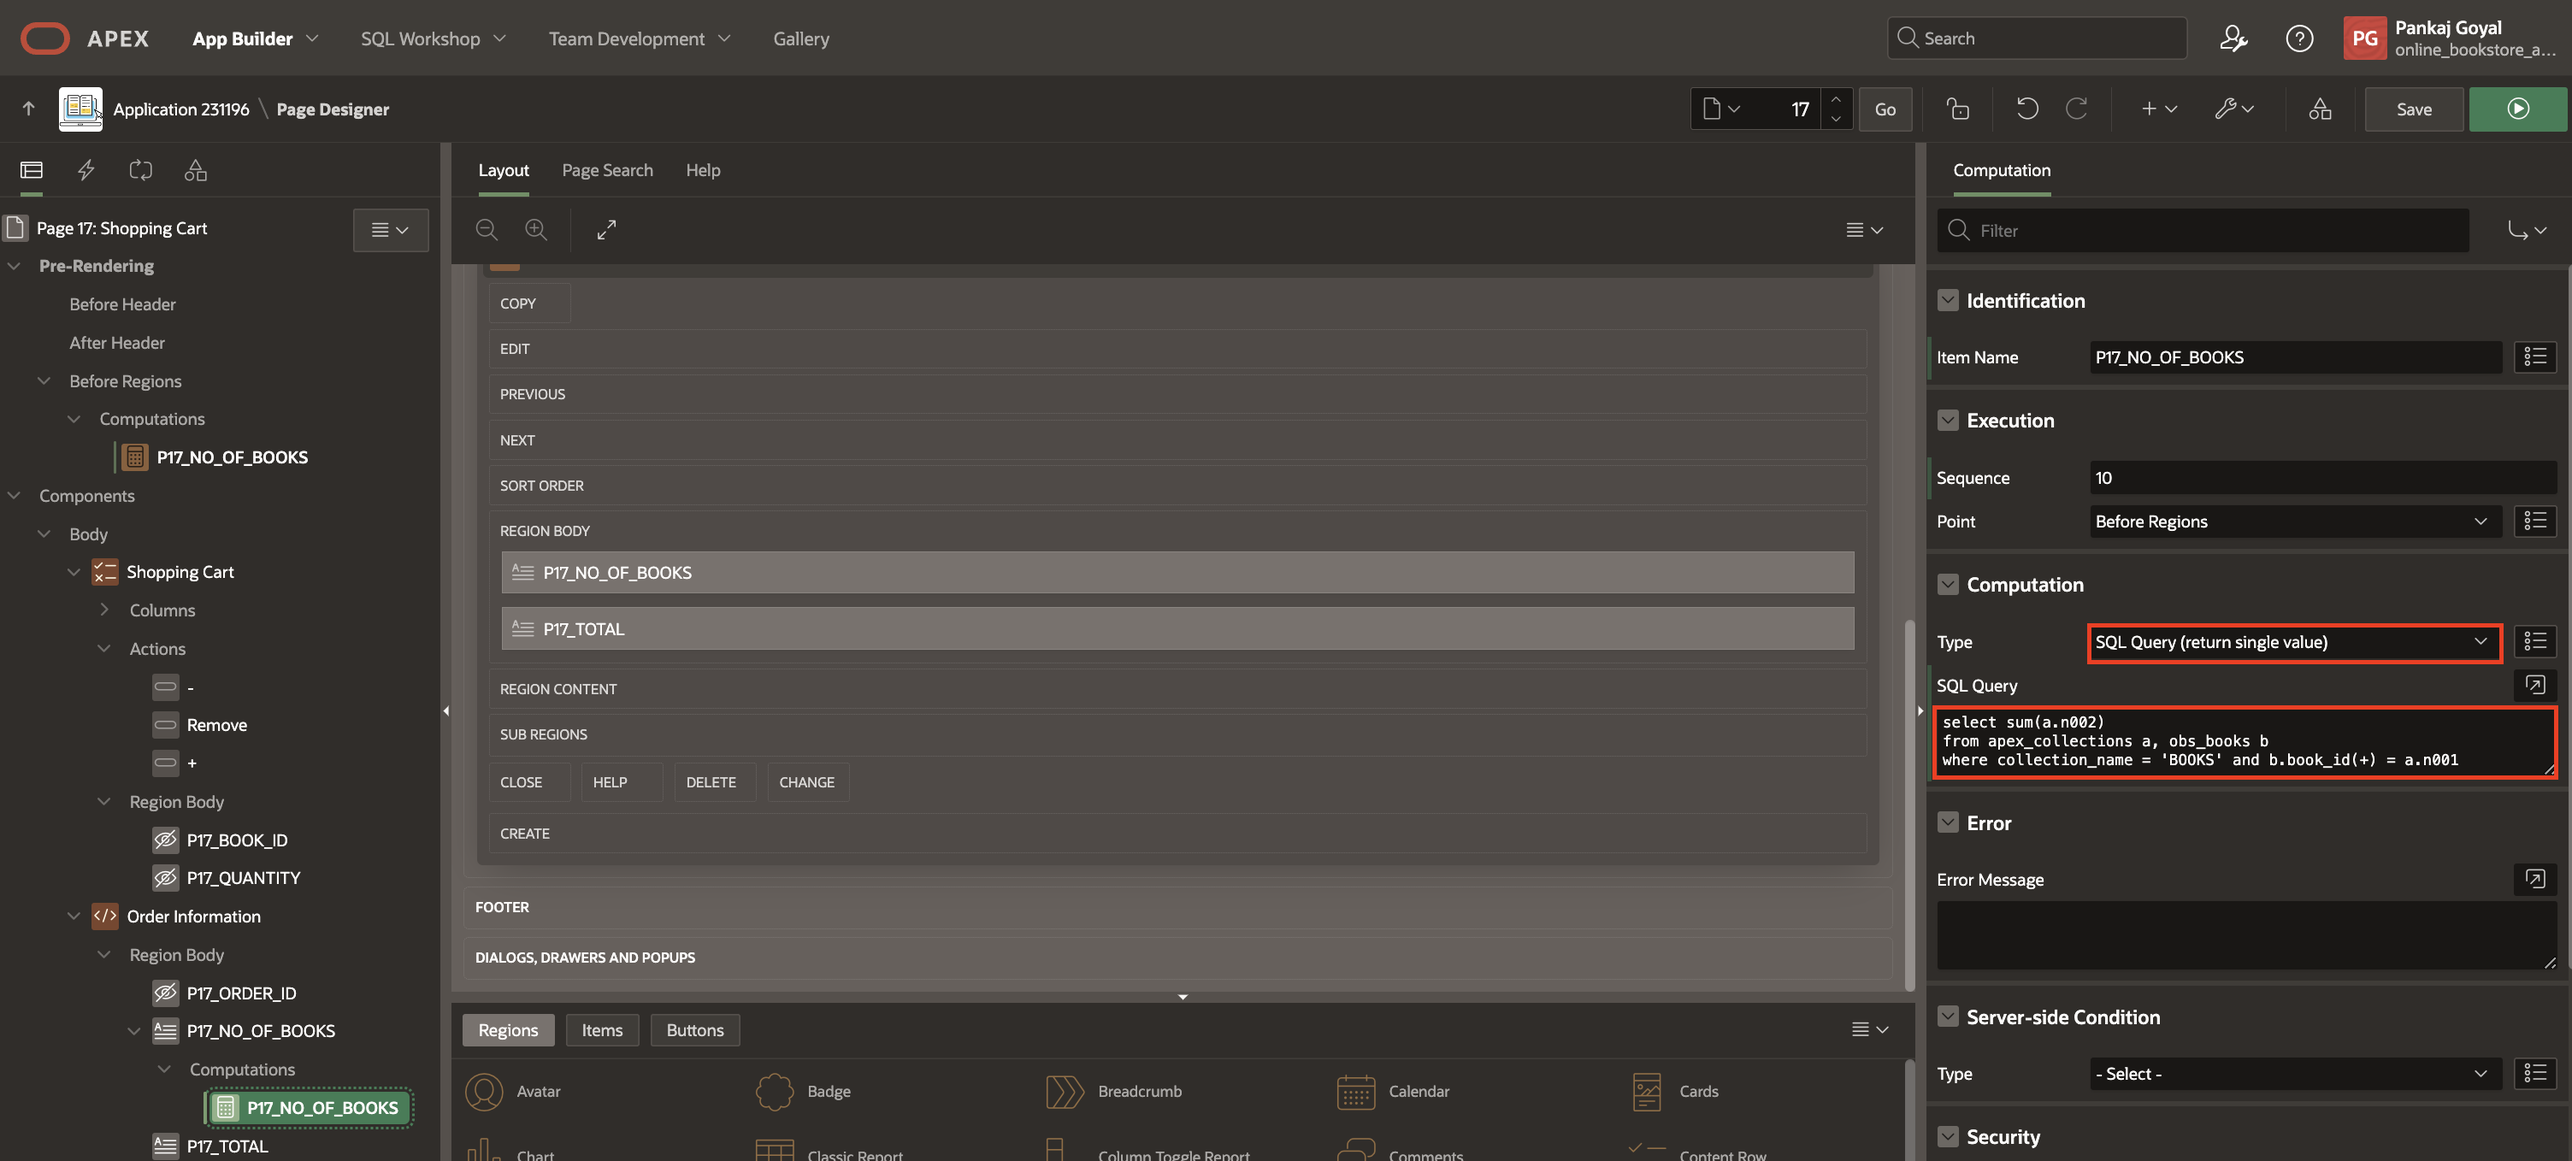
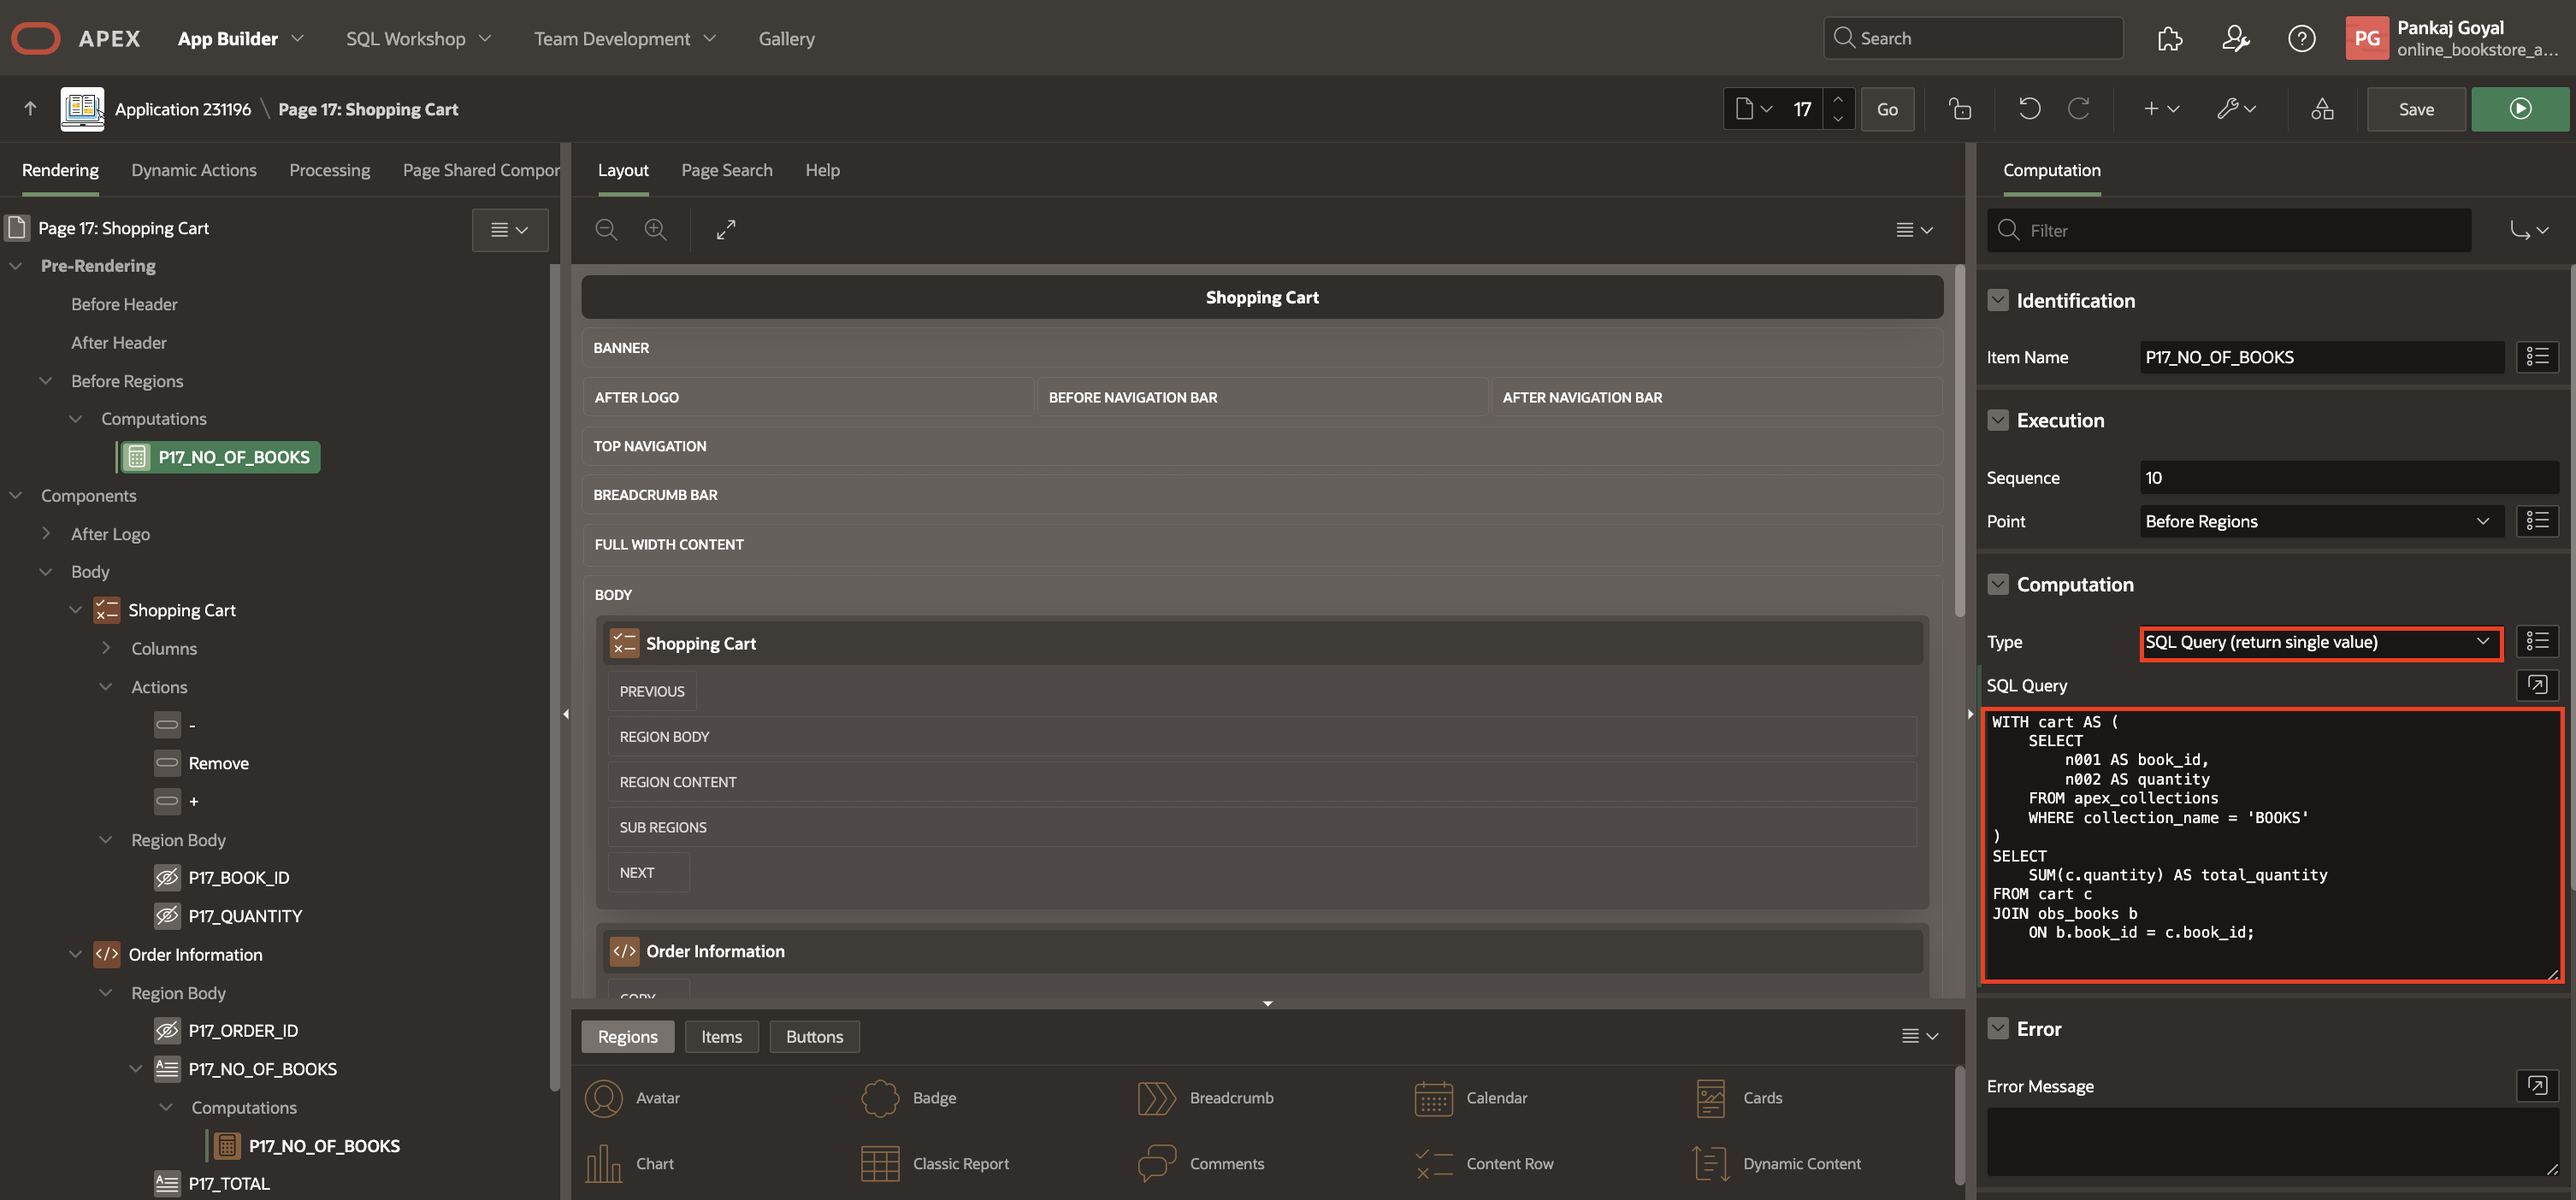
OBS 24.2 Feedback fixes

diff --git a/online-book-store-app/10-add-user/10-add-user.md b/online-book-store-app/10-add-user/10-add-user.md
@@ -636,23 +636,19 @@ This task provides a comprehensive step-by-step process for creating and configu
 
     - Under Validation:
 
-        - Type: **Function Body (returning Boolean)**
+        - Type: **Expression**
 
-        - PL/SQL Function Body: Copy and paste the below code:
+        - PL/SQL Function Body: Copy and paste the below expression:
 
             ```
             <copy>
-            if :P27_NEW_PASSWORD is not NULL then
-                return true;
-            else
-                return false;
-            end if;
+            :P27_NEW_PASSWORD is not NULL
             </copy>
             ```
 
      - Error > Error Message: **Password must have some value**.
 
-    ![close dialog](images/10-4-new-pass-val1.png " ")
+    ![close dialog](images/10-4-new-password-val1.png " ")
 
 13. Right-click **Reset Password** and select **Create Page Item**.
 
@@ -684,24 +680,18 @@ This task provides a comprehensive step-by-step process for creating and configu
 
     - Under Validation:
 
-        - Type: **Function Body (returning Boolean)**
+        - Type: **Expression**
 
-        - PL/SQL Function Body: Copy and paste the below code:
+        - PL/SQL Function Body: Copy and paste the below expression:
         ```
         <copy>
-        begin
-            if :P27_NEW_PASSWORD = :P27_CONFIRM_NEW_PASSWORD then
-                return true;
-            else
-                return false;
-            end if;
-        end;
+        :P27_NEW_PASSWORD = :P27_CONFIRM_NEW_PASSWORD
         </copy>
         ```
 
     - Error > Error Message: **Confirm Password and Password must be same.**
 
-    ![close dialog](images/10-4-confirm-pass-val.png " ")
+    ![close dialog](images/10-4-confirm-password-val.png " ")
 
 17. Right-click **Content Body** and select **Create Region**.
 

diff --git a/online-book-store-app/7-create-shop-cart/7-create-shop-cart.md b/online-book-store-app/7-create-shop-cart/7-create-shop-cart.md
@@ -395,9 +395,18 @@ In this task, you create buttons for removing items from the cart and proceeding
 
           ```
           <copy>
-          select sum(a.n002)
-          from apex_collections a, obs_books b
-          where collection_name = 'BOOKS' and b.book_id(+) = a.n001
+        WITH cart AS (
+            SELECT
+                n001 AS book_id,
+                n002 AS quantity
+            FROM apex_collections
+            WHERE collection_name = 'BOOKS'
+)
+SELECT
+    SUM(c.quantity) AS total_quantity
+FROM cart c
+JOIN obs_books b
+    ON b.book_id = c.book_id;
           </copy>
           ```
 
@@ -413,13 +422,22 @@ In this task, you create buttons for removing items from the cart and proceeding
 
         - Type: **SQL Query (return single value)**
 
-        - SQL Query: Copy and Paste the below code:
+        - SQL Query: Copy and paste the below code:
 
             ```
             <copy>
-            SELECT ROUND(SUM(b.price * ((100 - b.discount) / 100) * a.n002), 0)
-            FROM apex_collections a, obs_books b
-            WHERE collection_name = 'BOOKS' AND b.book_id(+) = a.n001;
+            WITH cart AS (
+                SELECT
+                    n001 AS book_id,
+                    n002 AS quantity
+                FROM apex_collections
+                WHERE collection_name = 'BOOKS'
+)
+SELECT
+    ROUND(SUM(b.price * ((100 - b.discount) / 100) * c.quantity), 0) AS total_cost
+FROM cart c
+JOIN obs_books b
+    ON b.book_id = c.book_id;
             </copy>
             ```
 
